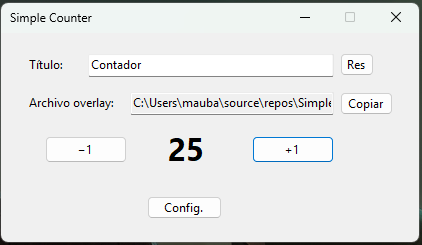
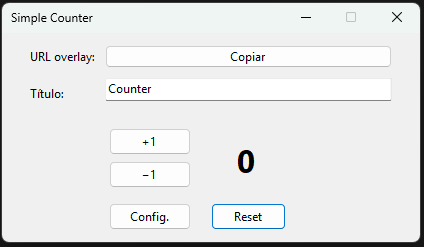
replace preview

diff --git a/SimpleCounterObs/Form1.Designer.cs b/SimpleCounterObs/Form1.Designer.cs
@@ -57,16 +57,16 @@ namespace SimpleCounterObs
             // 
             // txtTitle
             // 
-            txtTitle.Location = new Point(87, 21);
+            txtTitle.Location = new Point(103, 45);
             txtTitle.Name = "txtTitle";
-            txtTitle.Size = new Size(246, 23);
+            txtTitle.Size = new Size(287, 23);
             txtTitle.TabIndex = 0;
             txtTitle.TextChanged += txtTitle_TextChanged;
             // 
             // lblTitle
             // 
             lblTitle.AutoSize = true;
-            lblTitle.Location = new Point(25, 24);
+            lblTitle.Location = new Point(25, 53);
             lblTitle.Name = "lblTitle";
             lblTitle.Size = new Size(41, 15);
             lblTitle.TabIndex = 1;
@@ -75,16 +75,16 @@ namespace SimpleCounterObs
             // lblValue
             // 
             lblValue.Font = new Font("Segoe UI", 24F, FontStyle.Bold);
-            lblValue.Location = new Point(146, 92);
+            lblValue.Location = new Point(209, 98);
             lblValue.Name = "lblValue";
-            lblValue.Size = new Size(83, 45);
+            lblValue.Size = new Size(75, 57);
             lblValue.TabIndex = 2;
             lblValue.Text = "0";
             lblValue.TextAlign = ContentAlignment.MiddleCenter;
             // 
             // btnInc
             // 
-            btnInc.Location = new Point(251, 103);
+            btnInc.Location = new Point(107, 95);
             btnInc.Name = "btnInc";
             btnInc.Size = new Size(82, 27);
             btnInc.TabIndex = 3;
@@ -94,7 +94,7 @@ namespace SimpleCounterObs
             // 
             // btnDec
             // 
-            btnDec.Location = new Point(44, 103);
+            btnDec.Location = new Point(107, 128);
             btnDec.Name = "btnDec";
             btnDec.Size = new Size(82, 27);
             btnDec.TabIndex = 4;
@@ -104,9 +104,9 @@ namespace SimpleCounterObs
             // 
             // btnReset
             // 
-            btnReset.Location = new Point(339, 20);
+            btnReset.Location = new Point(209, 170);
             btnReset.Name = "btnReset";
-            btnReset.Size = new Size(34, 23);
+            btnReset.Size = new Size(75, 27);
             btnReset.TabIndex = 5;
             btnReset.Text = "Reset";
             btnReset.UseVisualStyleBackColor = true;
@@ -115,25 +115,28 @@ namespace SimpleCounterObs
             // lblOverlay
             // 
             lblOverlay.AutoSize = true;
-            lblOverlay.Location = new Point(25, 62);
+            lblOverlay.Location = new Point(25, 16);
             lblOverlay.Name = "lblOverlay";
-            lblOverlay.Size = new Size(92, 15);
+            lblOverlay.Size = new Size(72, 15);
             lblOverlay.TabIndex = 6;
-            lblOverlay.Text = "Archivo overlay:";
+            lblOverlay.Text = "URL overlay:";
+            lblOverlay.Click += lblOverlay_Click;
             // 
             // txtOverlay
             // 
-            txtOverlay.Location = new Point(129, 59);
+            txtOverlay.Location = new Point(396, 12);
             txtOverlay.Name = "txtOverlay";
             txtOverlay.ReadOnly = true;
-            txtOverlay.Size = new Size(204, 23);
+            txtOverlay.Size = new Size(10, 23);
             txtOverlay.TabIndex = 7;
+            txtOverlay.Visible = false;
+            txtOverlay.TextChanged += txtOverlay_TextChanged;
             // 
             // btnCopy
             // 
-            btnCopy.Location = new Point(339, 59);
+            btnCopy.Location = new Point(103, 12);
             btnCopy.Name = "btnCopy";
-            btnCopy.Size = new Size(53, 23);
+            btnCopy.Size = new Size(287, 23);
             btnCopy.TabIndex = 8;
             btnCopy.Text = "Copiar";
             btnCopy.UseVisualStyleBackColor = true;
@@ -141,9 +144,9 @@ namespace SimpleCounterObs
             // 
             // button1
             // 
-            button1.Location = new Point(146, 163);
+            button1.Location = new Point(107, 170);
             button1.Name = "button1";
-            button1.Size = new Size(75, 23);
+            button1.Size = new Size(82, 27);
             button1.TabIndex = 9;
             button1.Text = "Config.";
             button1.UseVisualStyleBackColor = true;

diff --git a/SimpleCounterObs/Form1.cs b/SimpleCounterObs/Form1.cs
@@ -21,7 +21,7 @@ namespace SimpleCounterObs
             InitializeComponent();
             _state = _config.Load();
 
-            
+
             _trayMenu = new ContextMenuStrip();
             _trayMenu.Items.Add("Mostrar", null, (s, e) => RestoreFromTray());
             _trayMenu.Items.Add(new ToolStripSeparator());
@@ -31,11 +31,11 @@ namespace SimpleCounterObs
             _trayMenu.Items.Add(new ToolStripSeparator());
             _trayMenu.Items.Add("Salir", null, (s, e) => ExitApplication());
 
-            
+
             _tray = new NotifyIcon
             {
                 Text = "SimpleCounterObs",
-                Visible = false,                  
+                Visible = false,
                 ContextMenuStrip = _trayMenu
             };
 
@@ -43,7 +43,7 @@ namespace SimpleCounterObs
             string icoPath = Path.Combine(AppDomain.CurrentDomain.BaseDirectory, "Assets", "app.ico");
             if (File.Exists(icoPath))
             {
-                _tray.Icon = new Icon(icoPath);  
+                _tray.Icon = new Icon(icoPath);
             }
             else
             {
@@ -58,7 +58,7 @@ namespace SimpleCounterObs
             this.Resize += MainForm_Resize;
 
             // (opcional) si quieres “cerrar” con la X, que vaya a tray:
-            
+
 
         }
 
@@ -149,7 +149,7 @@ namespace SimpleCounterObs
             }
         }
 
-        
+
 
         private void GoToTray()
         {
@@ -188,5 +188,14 @@ namespace SimpleCounterObs
             Application.Exit();
         }
 
+        private void lblOverlay_Click(object sender, EventArgs e)
+        {
+
+        }
+
+        private void txtOverlay_TextChanged(object sender, EventArgs e)
+        {
+
+        }
     }
 }
